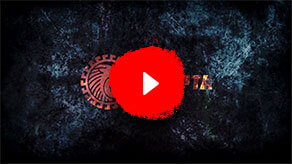
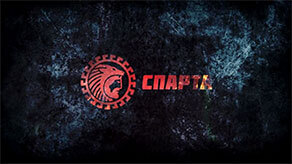
feat: added a video player to the testimonials section

Changed region(s): [[0.339, 0.2134, 0.6473, 0.7317]]

diff --git a/src/img/sprite/sprite.scss b/src/img/sprite/sprite.scss
@@ -10,76 +10,98 @@
 // At the bottom of this section, we provide information about the spritesheet itself
 // $spritesheet: width height image $spritesheet-sprites;
 $arrow-left-hover-name: 'arrow-left-hover';
-$arrow-left-hover-x: 0px;
-$arrow-left-hover-y: 38px;
-$arrow-left-hover-offset-x: 0px;
-$arrow-left-hover-offset-y: -38px;
+$arrow-left-hover-x: 132px;
+$arrow-left-hover-y: 131px;
+$arrow-left-hover-offset-x: -132px;
+$arrow-left-hover-offset-y: -131px;
 $arrow-left-hover-width: 40px;
 $arrow-left-hover-height: 19px;
-$arrow-left-hover-total-width: 106px;
-$arrow-left-hover-total-height: 57px;
+$arrow-left-hover-total-width: 234px;
+$arrow-left-hover-total-height: 150px;
 $arrow-left-hover-image: '../img/sprite/sprite.png';
-$arrow-left-hover: (0px, 38px, 0px, -38px, 40px, 19px, 106px, 57px, '../img/sprite/sprite.png', 'arrow-left-hover', );
+$arrow-left-hover: (132px, 131px, -132px, -131px, 40px, 19px, 234px, 150px, '../img/sprite/sprite.png', 'arrow-left-hover', );
 $arrow-left-name: 'arrow-left';
-$arrow-left-x: 66px;
-$arrow-left-y: 0px;
-$arrow-left-offset-x: -66px;
-$arrow-left-offset-y: 0px;
+$arrow-left-x: 172px;
+$arrow-left-y: 131px;
+$arrow-left-offset-x: -172px;
+$arrow-left-offset-y: -131px;
 $arrow-left-width: 40px;
 $arrow-left-height: 19px;
-$arrow-left-total-width: 106px;
-$arrow-left-total-height: 57px;
+$arrow-left-total-width: 234px;
+$arrow-left-total-height: 150px;
 $arrow-left-image: '../img/sprite/sprite.png';
-$arrow-left: (66px, 0px, -66px, 0px, 40px, 19px, 106px, 57px, '../img/sprite/sprite.png', 'arrow-left', );
+$arrow-left: (172px, 131px, -172px, -131px, 40px, 19px, 234px, 150px, '../img/sprite/sprite.png', 'arrow-left', );
 $arrow-right-hover-name: 'arrow-right-hover';
 $arrow-right-hover-x: 0px;
-$arrow-right-hover-y: 0px;
+$arrow-right-hover-y: 131px;
 $arrow-right-hover-offset-x: 0px;
-$arrow-right-hover-offset-y: 0px;
+$arrow-right-hover-offset-y: -131px;
 $arrow-right-hover-width: 66px;
 $arrow-right-hover-height: 19px;
-$arrow-right-hover-total-width: 106px;
-$arrow-right-hover-total-height: 57px;
+$arrow-right-hover-total-width: 234px;
+$arrow-right-hover-total-height: 150px;
 $arrow-right-hover-image: '../img/sprite/sprite.png';
-$arrow-right-hover: (0px, 0px, 0px, 0px, 66px, 19px, 106px, 57px, '../img/sprite/sprite.png', 'arrow-right-hover', );
+$arrow-right-hover: (0px, 131px, 0px, -131px, 66px, 19px, 234px, 150px, '../img/sprite/sprite.png', 'arrow-right-hover', );
 $arrow-right-name: 'arrow-right';
-$arrow-right-x: 0px;
-$arrow-right-y: 19px;
-$arrow-right-offset-x: 0px;
-$arrow-right-offset-y: -19px;
+$arrow-right-x: 66px;
+$arrow-right-y: 131px;
+$arrow-right-offset-x: -66px;
+$arrow-right-offset-y: -131px;
 $arrow-right-width: 66px;
 $arrow-right-height: 19px;
-$arrow-right-total-width: 106px;
-$arrow-right-total-height: 57px;
+$arrow-right-total-width: 234px;
+$arrow-right-total-height: 150px;
 $arrow-right-image: '../img/sprite/sprite.png';
-$arrow-right: (0px, 19px, 0px, -19px, 66px, 19px, 106px, 57px, '../img/sprite/sprite.png', 'arrow-right', );
+$arrow-right: (66px, 131px, -66px, -131px, 66px, 19px, 234px, 150px, '../img/sprite/sprite.png', 'arrow-right', );
+$media-play-hover-name: 'media-play-hover';
+$media-play-hover-x: 0px;
+$media-play-hover-y: 0px;
+$media-play-hover-offset-x: 0px;
+$media-play-hover-offset-y: 0px;
+$media-play-hover-width: 125px;
+$media-play-hover-height: 131px;
+$media-play-hover-total-width: 234px;
+$media-play-hover-total-height: 150px;
+$media-play-hover-image: '../img/sprite/sprite.png';
+$media-play-hover: (0px, 0px, 0px, 0px, 125px, 131px, 234px, 150px, '../img/sprite/sprite.png', 'media-play-hover', );
+$media-play-name: 'media-play';
+$media-play-x: 125px;
+$media-play-y: 0px;
+$media-play-offset-x: -125px;
+$media-play-offset-y: 0px;
+$media-play-width: 109px;
+$media-play-height: 113px;
+$media-play-total-width: 234px;
+$media-play-total-height: 150px;
+$media-play-image: '../img/sprite/sprite.png';
+$media-play: (125px, 0px, -125px, 0px, 109px, 113px, 234px, 150px, '../img/sprite/sprite.png', 'media-play', );
 $pagination-dot-hover-name: 'pagination-dot-hover';
-$pagination-dot-hover-x: 66px;
-$pagination-dot-hover-y: 19px;
-$pagination-dot-hover-offset-x: -66px;
-$pagination-dot-hover-offset-y: -19px;
+$pagination-dot-hover-x: 125px;
+$pagination-dot-hover-y: 113px;
+$pagination-dot-hover-offset-x: -125px;
+$pagination-dot-hover-offset-y: -113px;
 $pagination-dot-hover-width: 10px;
 $pagination-dot-hover-height: 9px;
-$pagination-dot-hover-total-width: 106px;
-$pagination-dot-hover-total-height: 57px;
+$pagination-dot-hover-total-width: 234px;
+$pagination-dot-hover-total-height: 150px;
 $pagination-dot-hover-image: '../img/sprite/sprite.png';
-$pagination-dot-hover: (66px, 19px, -66px, -19px, 10px, 9px, 106px, 57px, '../img/sprite/sprite.png', 'pagination-dot-hover', );
+$pagination-dot-hover: (125px, 113px, -125px, -113px, 10px, 9px, 234px, 150px, '../img/sprite/sprite.png', 'pagination-dot-hover', );
 $pagination-dot-name: 'pagination-dot';
-$pagination-dot-x: 76px;
-$pagination-dot-y: 19px;
-$pagination-dot-offset-x: -76px;
-$pagination-dot-offset-y: -19px;
+$pagination-dot-x: 135px;
+$pagination-dot-y: 113px;
+$pagination-dot-offset-x: -135px;
+$pagination-dot-offset-y: -113px;
 $pagination-dot-width: 10px;
 $pagination-dot-height: 9px;
-$pagination-dot-total-width: 106px;
-$pagination-dot-total-height: 57px;
+$pagination-dot-total-width: 234px;
+$pagination-dot-total-height: 150px;
 $pagination-dot-image: '../img/sprite/sprite.png';
-$pagination-dot: (76px, 19px, -76px, -19px, 10px, 9px, 106px, 57px, '../img/sprite/sprite.png', 'pagination-dot', );
-$spritesheet-width: 106px;
-$spritesheet-height: 57px;
+$pagination-dot: (135px, 113px, -135px, -113px, 10px, 9px, 234px, 150px, '../img/sprite/sprite.png', 'pagination-dot', );
+$spritesheet-width: 234px;
+$spritesheet-height: 150px;
 $spritesheet-image: '../img/sprite/sprite.png';
-$spritesheet-sprites: ($arrow-left-hover, $arrow-left, $arrow-right-hover, $arrow-right, $pagination-dot-hover, $pagination-dot, );
-$spritesheet: (106px, 57px, '../img/sprite/sprite.png', $spritesheet-sprites, );
+$spritesheet-sprites: ($arrow-left-hover, $arrow-left, $arrow-right-hover, $arrow-right, $media-play-hover, $media-play, $pagination-dot-hover, $pagination-dot, );
+$spritesheet: (234px, 150px, '../img/sprite/sprite.png', $spritesheet-sprites, );
 
 // The provided mixins are intended to be used with the array-like variables
 //

diff --git a/src/sass/blocks/testimonials/testimonials.scss b/src/sass/blocks/testimonials/testimonials.scss
@@ -62,14 +62,19 @@
     font-size: 36px;
   }
 }
-.video-player {
+.video-player-wrapper {
+  position: relative;
   width: 1142px;
+  display: flex;
+  justify-content: center;
+  align-items: center;
   height: 642px;
   margin-bottom: 60px;
   margin-right: auto;
   margin-left: auto;
   background-image: url("../img/testimonials/media-player-desktop.jpg");
   background-repeat: no-repeat;
+  z-index: 2000;
 
   @include tablet-width-only {
     width: 723px;
@@ -82,6 +87,35 @@
     width: 292px;
     height: 164px;
     background-image: url("../img/testimonials/media-player-mobile.jpg");
+  }
+}
+.player {
+  height: 642px;
+  width: 1142px;
+
+  @include tablet-width-only {
+    width: 723px;
+    height: 407px;
+  }
+
+  @include mobile-width-only {
+    width: 292px;
+    height: 164px;
+  }
+}
+.video-player__play-button {
+  width: 109px;
+  height: 113px;
+  background-image: url("../img/icon-raster/media-play.png");
+  background-repeat: no-repeat;
+  border: none;
+  background-color: transparent;
+  cursor: pointer;
+
+  &:hover {
+    width: 125px;
+    height: 131px;
+    background-image: url("../img/icon-raster/media-play-hover.png");
   }
 }
 .testimonials__list {

diff --git a/src/template-html-for-webpack/index.html b/src/template-html-for-webpack/index.html
@@ -8,6 +8,7 @@
     <meta name="description" content="Description of the site">
     <link rel="stylesheet" href="css/core.css">
     <link rel="stylesheet" href="css/index.css">
+    <script src="https://www.youtube.com/iframe_api"></script>
   </head>
   <body>
     <header class="page-header">
@@ -231,10 +232,12 @@
         </div>
       </section>
       <section class="testimonials">
-        <!-- .testimonials__wrapper-->
         <div class="container">
           <h2 class="testimonials__title">Отзывы</h2>
-          <div class="video-player"></div>
+          <div class="video-player-wrapper">
+            <button class="video-player__play-button" type="button"></button>
+            <div class="player" style="display: none;" id="player"></div>
+          </div>
           <ul class="testimonials__list">
             <li class="testimonials__item">
               <div class="testimonials__reviewer-photo"></div><span class="testimonials__item-reviewer-name">Дмитрий Весна</span>

diff --git a/src/js/index.js b/src/js/index.js
@@ -1,0 +1,22 @@
+const onLoadWindow = () => {
+  const playButton = document.querySelector('.video-player__play-button');
+  let player = null;
+
+  window.console.log('YT - ', YT);
+
+  player = new YT.Player('player', {
+    videoId: 'NR2pM95f8Rw',
+  });
+
+  const videoPlayer = document.querySelector('.video-player-wrapper');
+
+  videoPlayer.addEventListener('click', () => {
+    document.querySelector('.video-player-wrapper #player').style.display = 'block';
+    playButton.style.display = 'none';
+    player.playVideo();
+  });
+};
+
+// window.attachEvent ? window.attachEvent('onload', onLoadWindow) : window.addEventListener('load', onLoadWindow);
+
+window.addEventListener('load', onLoadWindow);
